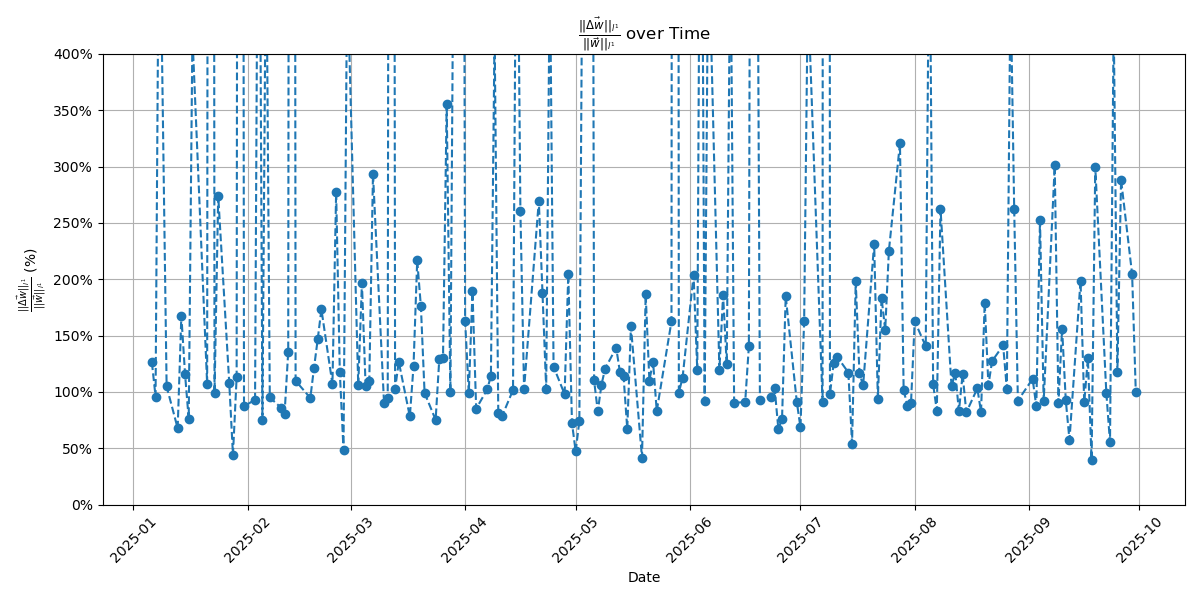
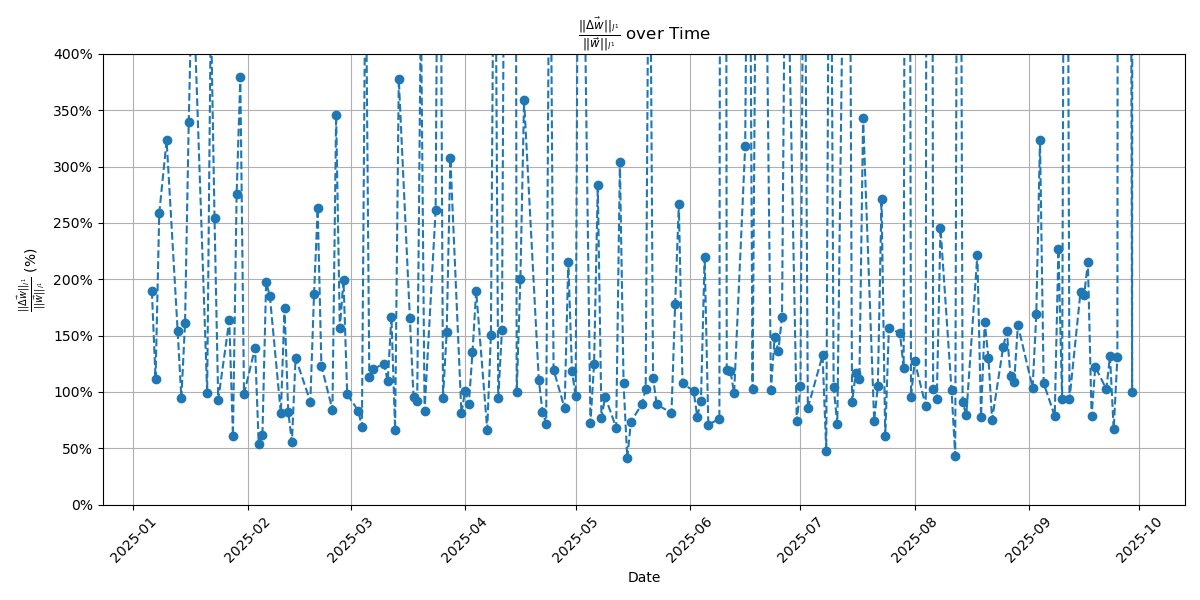
Научился делать презентации. Сложил всё в папку P-RCA.

Changed region(s): [[0.1233, 0.09, 0.9558, 0.78], [0.7708, 0.75, 0.8017, 0.78]]

diff --git a/Make-Up/markowitz_portfolio.py b/Make-Up/markowitz_portfolio.py
@@ -34,7 +34,7 @@ import matplotlib.ticker as mticker # 1. Импортируем ticker
 # 1) Data ingestion
 # -----------------------------
 # Expect a CSV with detrended daily log-returns (columns = assets, rows = dates).
-detrended_returns_df = pd.read_csv("../detrended_returns_df_100.csv", index_col=0)
+detrended_returns_df = pd.read_csv("../detrended_returns_df_200.csv", index_col=0)
 
 # -----------------------------
 # 2) Build annualized Σ
@@ -143,7 +143,7 @@ plt.grid()
 plt.tight_layout()
 # Save the plot
 # plt.savefig('weight_change_l1_norm_timeseries_200.png', format='png') # Не забыть поменять Пределы оси Y до 400%
-plt.savefig('weight_change_l1_norm_timeseries_100.png', format='png')
+plt.savefig('weight_change_l1_norm_timeseries_200.png', format='png')
 
 plt.show()
 # -----------------------------

diff --git a/R-PCA/robust_PCA_step1_2.py b/R-PCA/robust_PCA_step1_2.py
@@ -22,7 +22,7 @@ from typing import Tuple
 # 1) Data ingestion
 # -----------------------------
 # Expect a CSV with detrended daily log-returns (columns = assets, rows = dates).
-detrended_returns_df = pd.read_csv("detrended_returns_df.csv", index_col=0)
+detrended_returns_df = pd.read_csv("../detrended_returns_df_200.csv", index_col=0)
 detrended_returns_df.index = pd.to_datetime(detrended_returns_df.index)
 
 
